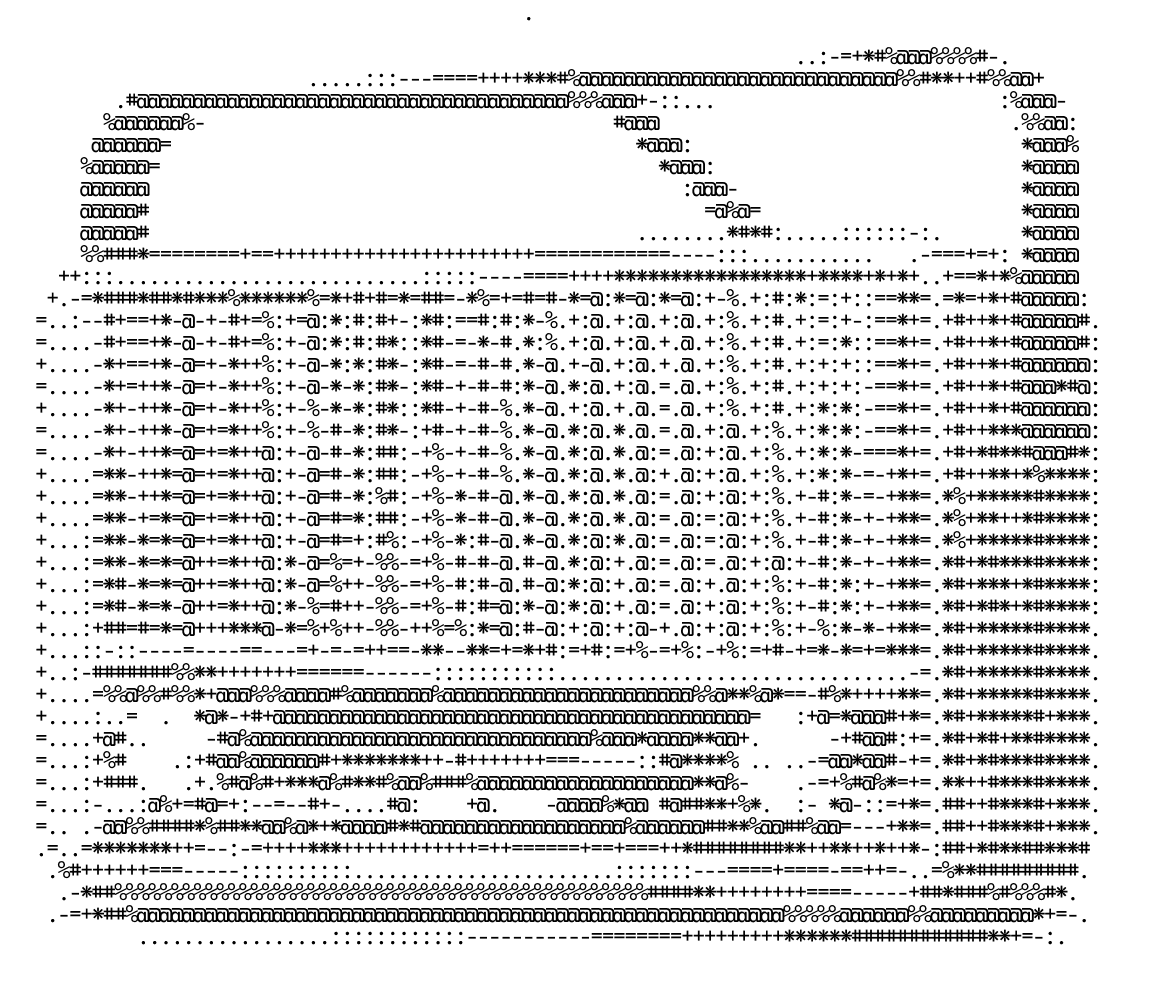
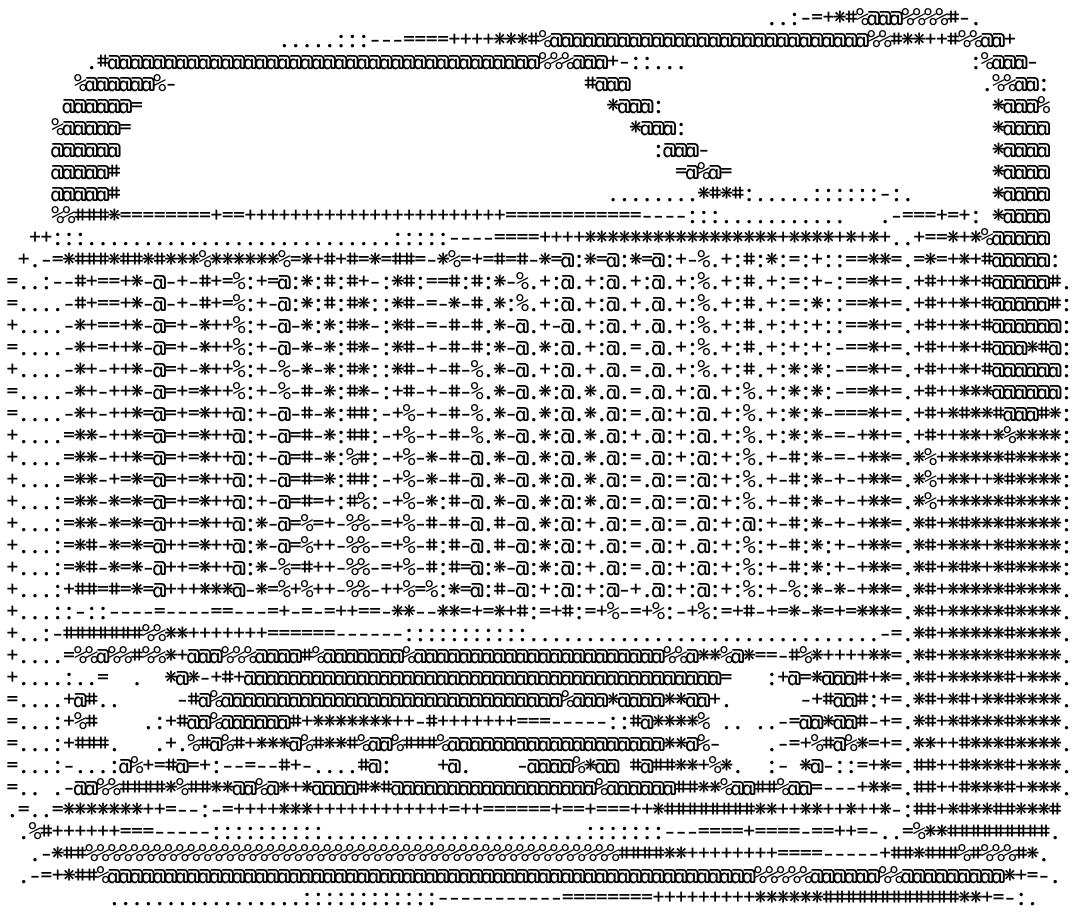
adjusted sizes of thigns

diff --git a/frontend/src/App.js b/frontend/src/App.js
@@ -11,7 +11,7 @@ import queryString from 'query-string';
 import './App.css';
 import Navigation from './components/Navigation';
 import ThemeContext from './lib/ThemeContext';
-import { COLOR_THEMES, LAYOUTS } from './lib/constants';
+import { ASCII_ART, COLOR_THEMES, LAYOUTS } from './lib/constants';
 
 function App() {
   const [token, setToken] = useState(undefined);
@@ -22,6 +22,7 @@ function App() {
   const [shown, setShown] = useState(true);
   const [body, setBody] = useState(undefined);
   const [post, setPost] = useState(undefined);
+  const [asciiIndex, setAsciiIndex] = useState(0);
 
   const colorScheme =
     theme == null
@@ -37,6 +38,8 @@ function App() {
     console.log(size, randomLayout);
     const newPositions = LAYOUT_CONFIG[randomLayout];
     setPositions(newPositions);
+    const ascii = Math.floor(Math.random() * ASCII_ART.length);
+    setAsciiIndex(ascii);
   };
 
   const [playbackReady, setPlaybackReady] = useState(false);
@@ -135,7 +138,14 @@ function App() {
         }}
       >
         <ThemeContext.Provider
-          value={{ theme, setTheme, colorScheme, randomTheme, positions }}
+          value={{
+            theme,
+            setTheme,
+            colorScheme,
+            randomTheme,
+            positions,
+            asciiIndex,
+          }}
         >
           <Navigation />
           <Routes>

diff --git a/frontend/src/pages/View/View.js b/frontend/src/pages/View/View.js
@@ -23,7 +23,7 @@ function View() {
   const [is_paused, setPaused] = useState(false);
   const [clickCount, setClickCount] = useState(true);
 
-  const { randomTheme, positions, colorScheme } = useTheme();
+  const { randomTheme, positions, colorScheme, asciiIndex } = useTheme();
   // const getToken = () => refreshToken(setToken);
 
   const base = 'https://api.spotify.com/v1/tracks';
@@ -160,13 +160,19 @@ function View() {
               <div className={styles.body} style={positions.text}>
                 <p
                   onClick={getNewPost}
-                  style={{ fontSize: SIZES[size ?? 'sm']?.text }}
+                  style={{
+                    fontSize: SIZES[size ?? 'sm']?.text,
+                    maxHeight:
+                      positions.text.height ??
+                      positions.text.maxHeight ??
+                      'auto',
+                  }}
                 >
                   {body}
                 </p>
               </div>
               <img
-                src={ASCII_ART[1]}
+                src={ASCII_ART[asciiIndex]}
                 alt="music player"
                 className={styles.ascii}
                 style={positions.ascii}

diff --git a/frontend/src/lib/constants.js b/frontend/src/lib/constants.js
@@ -472,7 +472,7 @@ export const LAYOUTS = {
 
 export const ASCII_ART = [boombox, radio, recordplayer, musicplayer];
 
-// export const BACKEND_ROOT =
-//   'https://someones-favorite-song-8d3e09586c1c.herokuapp.com';
+export const BACKEND_ROOT =
+  'https://someones-favorite-song-8d3e09586c1c.herokuapp.com';
 
-export const BACKEND_ROOT = 'http://localhost:3001';
+// export const BACKEND_ROOT = 'http://localhost:3001';

diff --git a/frontend/src/pages/View/View.module.css b/frontend/src/pages/View/View.module.css
@@ -65,7 +65,6 @@
 
 .body p {
   overflow: auto;
-  height: inherit;
 }
 
 .instructions,
